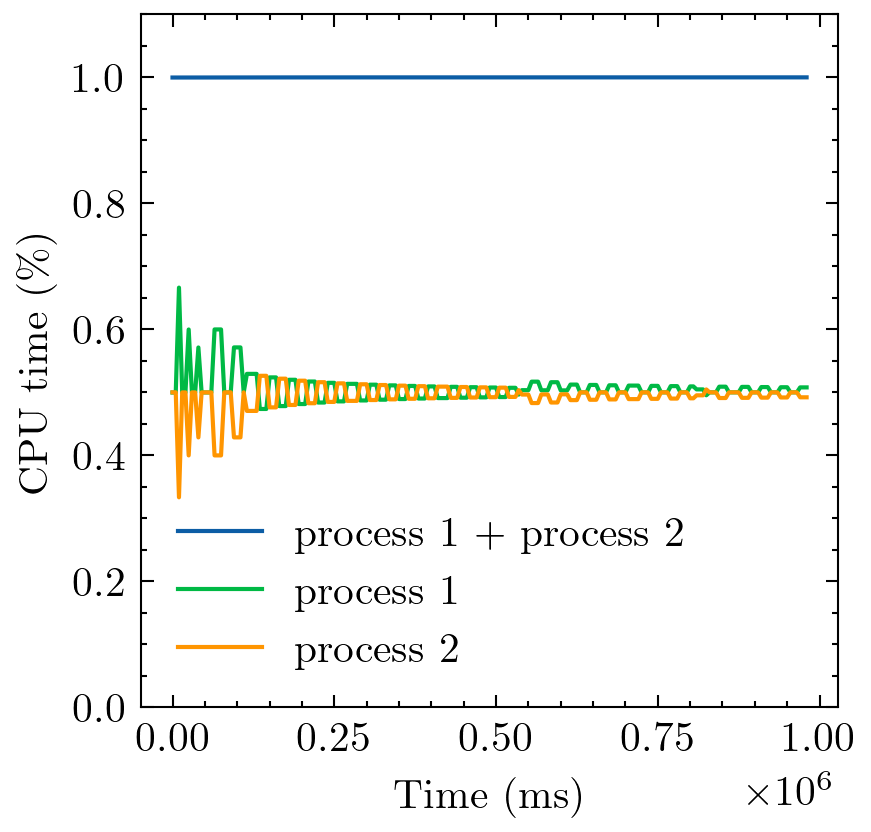
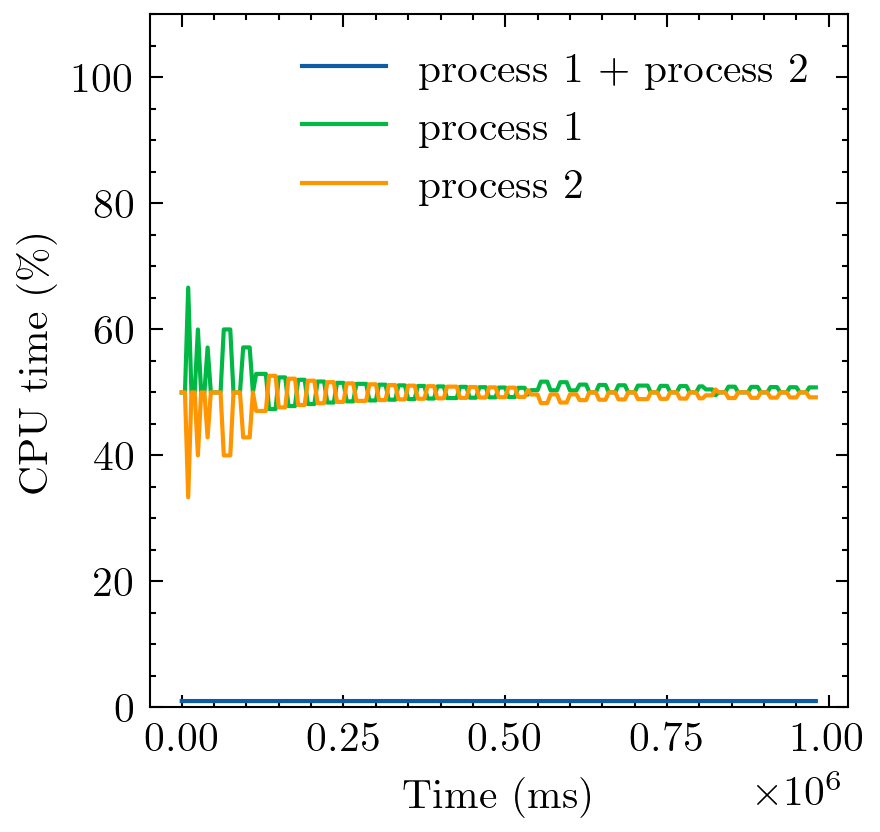
change percentage to [0, 100]

diff --git a/efs_test/plot_graph.py b/efs_test/plot_graph.py
@@ -87,17 +87,17 @@ def plot_timeshare_graph(sched_type, interval):
             for line in lines
         ]
         proc1_timeshare = [
-            float(line.split(",")[3]) / float(line.split(",")[1]) for line in lines
+            float(line.split(",")[3]) / float(line.split(",")[1])  * 100 for line in lines
         ]
         proc2_timeshare = [
-            float(line.split(",")[5]) / float(line.split(",")[1]) for line in lines
+            float(line.split(",")[5]) / float(line.split(",")[1])  * 100 for line in lines
         ]
 
         plt.ylim(0, 20)
         plt.plot(timesteps, sys_timeshare, label="process 1 + process 2")
         plt.plot(timesteps, proc1_timeshare, label="process 1")
         plt.plot(timesteps, proc2_timeshare, label="process 2")
-        plt.ylim(0, 1.1)
+        plt.ylim(0, 110)
         plt.xlabel("Time (ms)")
         plt.ylabel(r"CPU time (\%)")
         plt.legend()
@@ -115,16 +115,16 @@ def plot_energy_share_graph(sched_type, interval):
         timesteps = list(range(0, len(lines) * interval, interval))
 
         proc1_energy_share = [
-            float(line.split(",")[2]) / float(line.split(",")[0]) for line in lines
+            float(line.split(",")[2]) / float(line.split(",")[0]) * 100 for line in lines
         ]
         proc2_energy_share = [
-            float(line.split(",")[4]) / float(line.split(",")[0]) for line in lines
+            float(line.split(",")[4]) / float(line.split(",")[0]) * 100 for line in lines
         ]
 
         # plt.ylim(0, 20)
         plt.plot(timesteps, proc1_energy_share, label="process 1")
         plt.plot(timesteps, proc2_energy_share, label="process 2")
-        plt.ylim(0, 1.1)
+        plt.ylim(0, 110)
         plt.xlabel("Time (ms)")
         plt.ylabel(r"Energy share (\%)")
         plt.legend()
